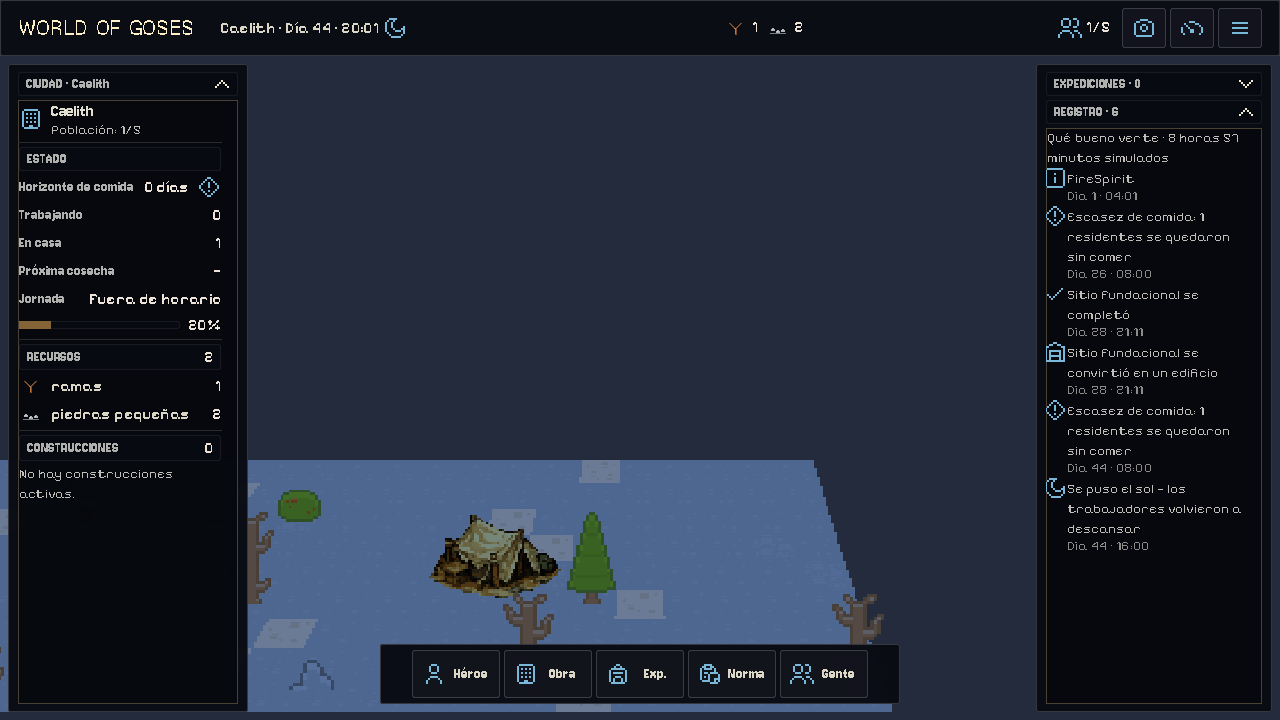
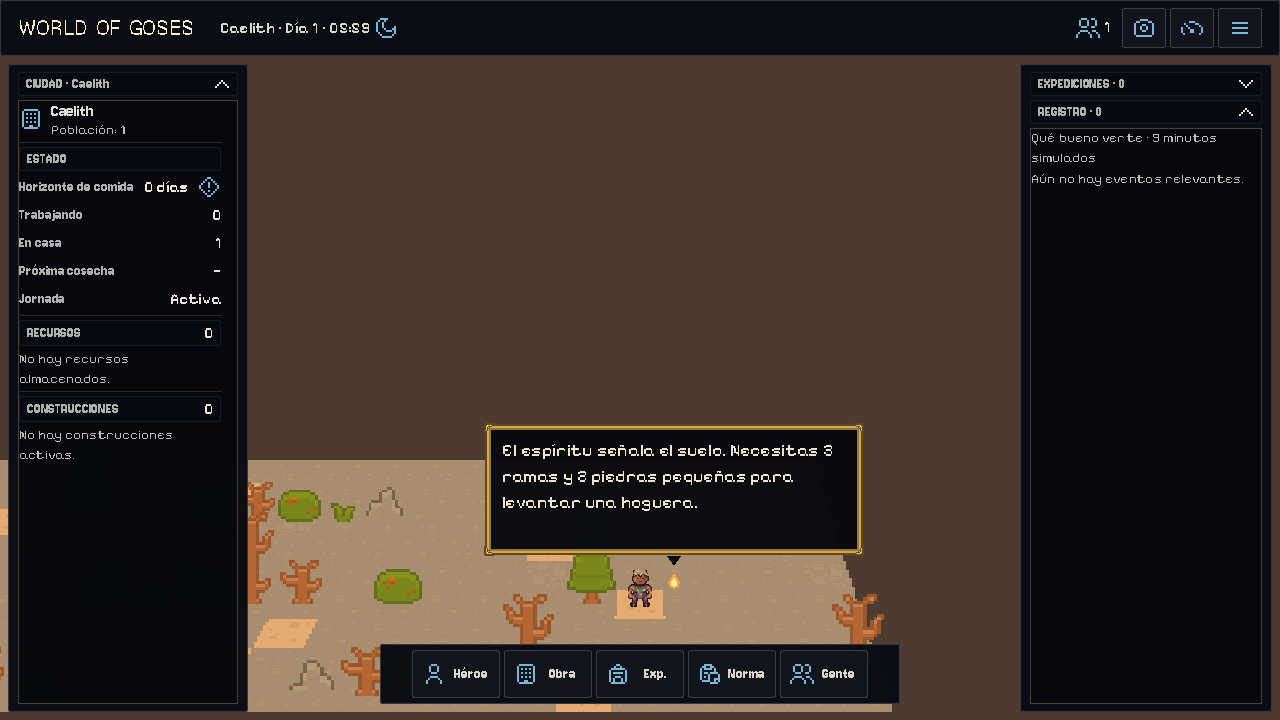
Close #29: the fresh onboarding world is seeded before the first save
CityGameSession.CompleteOnboarding() only called TryCreateHero() after
f41eef74 moved persistence out of the domain. The seeder calls that used
to live on the controller never landed on the new use case, so a fresh
playthrough reached Founder arrival with an empty world: no terrain, no
forests, no branches, no small stone. The session's own comment claimed
the seeds ran; the code did not.

The fix absorbs the orchestration back into the use case that needs it.
CompleteOnboarding() now calls SeedStartingForests() before
SeedStartingOpportunities() because the natural-resource layout planner
needs the parcels the forest seeder creates first. Both seeders were
already idempotent, so the load path that re-runs them from
TryLoadFromPrimarySlot still does not duplicate topology.

Three new tests in OpeningWorldSeedTests guard the contract:
CompleteOnboarding_SeedsForestsAndGroundPatchesBeforeReturning fails if
the world comes back without two Forests, the four EG-A0 ground patches,
the materialised weapon from the request, or the active FirstNightState.
CompleteOnboarding_RoundTripsThroughSaveAndLoadWithoutDoublingTopology
fails if a save+load+re-seed cycle adds a third Forest.
CompleteOnboarding_ProducesEnoughBranchesAndStoneForFirstCampfire fails
if the opener cannot hand the player the 3 Branches + 2 Small Stone the
Campfire recipe debits up front.

Baseline: 0 errors / 0 warnings, 1637/1637 tests, 1070 template IDs, 490
context checks, schema v35 unchanged.

diff --git a/tests/WorldofGoses.Tests/OpeningWorldSeedTests.cs b/tests/WorldofGoses.Tests/OpeningWorldSeedTests.cs
@@ -1,0 +1,171 @@
+#nullable enable
+using System.Linq;
+using WorldofGoses.Domain;
+using WorldofGoses.Persistence;
+using Xunit;
+
+namespace WorldofGoses.Tests;
+
+/// <summary>
+/// GitHub #29 closure tests.
+///
+/// <para>The opening of a fresh world is two operations, not one:
+/// <see cref="CityWorld.TryCreateHero"/> authors the Founder and starts
+/// the first night, and the use case that wraps it is also responsible
+/// for seeding the terrain the next step depends on. The two seeder
+/// calls used to live on <c>CityWorldController.TryCompleteOnboarding</c>
+/// and were correctly removed when persistence left the domain; the
+/// regression this slice closes is that
+/// <see cref="CityGameSession.CompleteOnboarding"/> never absorbed
+/// them. A player reaching Founder arrival in the new flow saw an
+/// empty world with no terrain, no forests, and no rudimentary
+/// resources to gather — a city without a city.</para>
+///
+/// <para>The tests below fail loudly if the regression returns. They
+/// guard three properties:</para>
+/// <list type="number">
+///   <item>A fresh <c>CompleteOnboarding</c> leaves a world the player
+///         can act on: founding parcels, the two Forests, and one
+///         patch of each EG-A0 ground resource.</item>
+///   <item>The opener still honours the prior invariants: the
+///         materialised weapon from <c>HeroCreationRequest</c> is
+///         equipped, the first night is active, and the
+///         seeder does not double the topology on a second call.</item>
+///   <item>Save and load round-trip preserves what the opener seeded
+///         and remains idempotent when the load path re-runs the
+///         same seeder.</item>
+/// </list>
+/// </summary>
+public sealed class OpeningWorldSeedTests
+{
+    [Fact]
+    public void CompleteOnboarding_SeedsForestsAndGroundPatchesBeforeReturning()
+    {
+        // Regression guard for the opening bug: a successful
+        // CompleteOnboarding must leave a city the player can act on.
+        // Before #29 the seeder calls were dropped during the
+        // Application/Persistence split and the world came back empty.
+        CityGameSession session = new();
+        CitizenProfile profile = TestHelpers.NewProfile();
+        // The two natural families the cube reaches depend on the
+        // fixture's lineage and element. Pick the first one so the
+        // request names a real choice; the domain re-validates
+        // anything else and a regression there would surface here.
+        (WeaponFamily chosen, _) = NaturalWeaponFamilies.For(
+            profile.CombatNature.PhysicalExpression);
+        HeroCreationRequest request = new(
+            "Aster",
+            profile,
+            profile.Gender,
+            MaterializedWeaponFamily: chosen);
+
+        HeroCreationResult result = session.CompleteOnboarding(request);
+
+        Assert.True(result.IsSuccess, result.Outcome.ToString());
+        CityWorld world = session.World;
+
+        // Founding parcels must be readable. A fresh city exposes the
+        // three horizontal parcels the natural-resource layout planner
+        // needs before it can place the EG-A0 patches below.
+        Assert.True(world.Parcels.Count >= 3,
+            $"Expected at least 3 founding parcels after CompleteOnboarding, "
+            + $"got {world.Parcels.Count}.");
+
+        // Two Forests is the documented opener. The same number the
+        // load-time repair in CityWorldController.TryLoadFromPrimarySlot
+        // produces, and the same number a save/load round-trip must
+        // preserve. An empty world returns 0 here.
+        int forestCount = world.Buildings.Values
+            .Count(building => building.Kind == BuildingKind.Forest);
+        Assert.Equal(2, forestCount);
+
+        // The EG-A0 ground distribution: 14 Branches, 6 Plant Fiber,
+        // 6 Small Stone, 8 Wild Food. Each type appears at least once.
+        // The two Wood patches come from SeedStartingForests and are
+        // checked separately below.
+        Assert.True(HasPatchOfType(world, ResourceType.Branches));
+        Assert.True(HasPatchOfType(world, ResourceType.PlantFiber));
+        Assert.True(HasPatchOfType(world, ResourceType.SmallStone));
+        Assert.True(HasPatchOfType(world, ResourceType.WildFood));
+
+        // The opener is the same use case that landed the founder's
+        // weapon (#26). A regression that broke one seam often breaks
+        // the other; assert both so the next refactor cannot trade
+        // them off.
+        Assert.NotNull(world.Hero);
+        Assert.NotNull(world.Hero.EquipmentLoadout.Weapon);
+        Assert.Equal(chosen, world.Hero.EquipmentLoadout.Weapon.Family);
+
+        // The first night must be active. The Founder arrival script
+        // gates the spirit on this; a session that returns
+        // success without starting the night is a regression even
+        // when the world is correctly seeded.
+        Assert.True(world.IsFirstNightActive);
+    }
+
+    [Fact]
+    public void CompleteOnboarding_RoundTripsThroughSaveAndLoadWithoutDoublingTopology()
+    {
+        // The seeder calls are now part of CompleteOnboarding, but
+        // TryLoadFromPrimarySlot still re-runs them. A regression
+        // that turned the seeders into a non-idempotent appender
+        // would double the topology here.
+        CityGameSession first = new();
+        CitizenProfile profile = TestHelpers.NewProfile();
+        Assert.True(first.CompleteOnboarding(new HeroCreationRequest(
+            "Aster",
+            profile,
+            profile.Gender)).IsSuccess);
+
+        CityWorld restored = WorldPersistence.FromSave(
+            WorldPersistence.DeserializeFromJson(
+                WorldPersistence.SerializeToJson(WorldPersistence.Capture(first.World))));
+
+        // Re-running the same seeders — what the load path does — must
+        // not add a third Forest, must not duplicate the four EG-A0
+        // patches, and must keep the existing parcels intact.
+        restored.SeedStartingForests();
+        restored.SeedStartingOpportunities();
+
+        int forestCount = restored.Buildings.Values
+            .Count(building => building.Kind == BuildingKind.Forest);
+        Assert.Equal(2, forestCount);
+
+        // 4 EG-A0 patches + 2 Wood patches from the forests = 6.
+        // A regression that turned SeedStartingForests into an
+        // appender would push this past 6.
+        Assert.Equal(6, restored.NaturalResourcePatches.Count);
+    }
+
+    [Fact]
+    public void CompleteOnboarding_ProducesEnoughBranchesAndStoneForFirstCampfire()
+    {
+        // The acceptance criterion named in #29: a fresh opener must
+        // hand the player the 3 Branches + 2 Small Stone the Campfire
+        // recipe debits up front. The seeder distributes 14 Branches
+        // (7 units × 2 each) and 6 Small Stone (3 × 2) — more than
+        // the recipe needs, so the camp can be authorised without
+        // gathering a third patch.
+        CityGameSession session = new();
+        CitizenProfile profile = TestHelpers.NewProfile();
+        Assert.True(session.CompleteOnboarding(new HeroCreationRequest(
+            "Aster",
+            profile,
+            profile.Gender)).IsSuccess);
+
+        CityWorld world = session.World;
+        int branches = world.NaturalResourcePatches.Values
+            .Where(patch => patch.ResourceType == ResourceType.Branches)
+            .Sum(patch => patch.TotalReserve);
+        int smallStone = world.NaturalResourcePatches.Values
+            .Where(patch => patch.ResourceType == ResourceType.SmallStone)
+            .Sum(patch => patch.TotalReserve);
+
+        Assert.True(branches >= 3, $"Branches={branches}, need >= 3 for the Campfire recipe.");
+        Assert.True(smallStone >= 2, $"SmallStone={smallStone}, need >= 2 for the Campfire recipe.");
+    }
+
+    private static bool HasPatchOfType(CityWorld world, ResourceType type) =>
+        world.NaturalResourcePatches.Values
+            .Any(patch => patch.ResourceType == type);
+}

diff --git a/game/scripts/Application/CityGameSession.cs b/game/scripts/Application/CityGameSession.cs
@@ -287,10 +287,33 @@ public sealed class CityGameSession
     /// starting forests plus the four rudimentary ground opportunities, and
     /// persists.
     /// </summary>
+    /// <remarks>
+    /// GitHub #29 closed the opening regression introduced in
+    /// <c>f41eef74</c>: the case-use previously only called
+    /// <see cref="CityWorld.TryCreateHero"/> and left the world empty, so
+    /// a fresh onboarding reached the Founder arrival with no terrain,
+    /// forests or ground resources to gather. The seeders used to live on
+    /// <c>CityWorldController.TryCompleteOnboarding</c> and were correctly
+    /// removed when persistence left the domain, but the new owner has to
+    /// re-issue them. They are idempotent — a save/load pair already
+    /// running them through <c>TryLoadFromPrimarySlot</c> would not
+    /// double-seed — so calling them here is safe even for slots that
+    /// later round-trip through persistence.
+    /// </remarks>
     public HeroCreationResult CompleteOnboarding(HeroCreationRequest request)
     {
         HeroCreationResult result = _world.TryCreateHero(request);
-        if (result.IsSuccess) _isDirty = true;
+        if (result.IsSuccess)
+        {
+            // Issue #29: the opening was an empty world because the
+            // case-use stopped at the hero. The seeder order matters —
+            // forests reference parcels that
+            // <see cref="CityWorld.SeedStartingForests"/> ensures exist
+            // before the natural-resource layout planner runs.
+            _world.SeedStartingForests();
+            _world.SeedStartingOpportunities();
+            _isDirty = true;
+        }
         return result;
     }
 

diff --git a/CHANGELOG.md b/CHANGELOG.md
@@ -17,6 +17,40 @@ baseline — not a list of touched files, `git log` already owns.
 
 ---
 
+## El opening vuelve a tener mundo por el que jugar
+
+**2026-08-13** · onboarding · schema v35 (sin cambio) · 1637 pruebas superadas
+
+**El jugador llega a un terreno jugable, no a una ciudad vacía.** El refactor
+`f41eef74` movió la persistencia fuera del dominio y dejó el caso de uso de
+`CityGameSession.CompleteOnboarding()` creando al Founder pero sin sembrar
+los bosques ni las oportunidades iniciales. El comentario del método decía
+que sí lo hacía; el código no. El resultado era un playthrough fresco que
+llegaba al espíritu pero veía un mapa sin terreno, sin ramas y sin piedras.
+El cierre del Workaround era reabrir el slot — `TryLoadFromPrimarySlot()`
+sí re-ejecuta los seeders, así que los saves viejos quedaban reparados al
+recargar.
+
+**La orquestación del seed vive en Application, no vuelve a Presentation.**
+`CityGameSession.CompleteOnboarding()` llama a `SeedStartingForests()` y
+`SeedStartingOpportunities()` después de `TryCreateHero()`, en ese orden
+porque el layout planner de recursos necesita las parcelas que crea el
+primer seeder. Los seeders ya eran idempotentes, así que el load path que
+los re-ejecuta después de restaurar no duplica parcelas, bosques ni
+patches — `OpeningWorldSeedTests.CompleteOnboarding_RoundTripsThroughSaveAndLoadWithoutDoublingTopology`
+lo prueba.
+
+**El arma materializada y la primera noche siguen intactas.** El nuevo
+arreglo sólo añade los seeders; el arma equipada (#26) y el `FirstNightState`
+arrancando al confirmar el Founder quedan exactamente como estaban.
+`OpeningWorldSeedTests.CompleteOnboarding_SeedsForestsAndGroundPatchesBeforeReturning`
+falla si alguno de los dos se rompe, y
+`CompleteOnboarding_ProducesEnoughBranchesAndStoneForFirstCampfire` verifica
+que el presupuesto mínimo del Campfire (3 Branches + 2 Small Stone) sigue
+ahí antes del primer save.
+
+---
+
 ## La carta del Founder dice ahora con qué se materializa
 
 **2026-08-13** · onboarding · presentación · schema v35 (sin cambio) · 1634 pruebas superadas

diff --git a/TO_DO.md b/TO_DO.md
@@ -441,6 +441,24 @@ superados en 2026-07-30; ver §8.)_
 
 ## 7. Hechas recientes
 
+### 2026-08-13
+
+- **#29 — El opening vuelve a tener mundo por el que jugar.** Regresión
+  introducida en `f41eef74`: `CityGameSession.CompleteOnboarding()` sólo
+  llamaba a `TryCreateHero()` y dejaba el world vacío. El comentario del
+  método afirmaba que sembraba bosques + oportunidades, pero la
+  implementación no. Cierre: el caso de uso absorbe los dos seeders en
+  ese orden (`SeedStartingForests()` antes que
+  `SeedStartingOpportunities()` porque el layout planner de recursos
+  necesita las parcelas que crea el primer seeder). El load path que
+  re-ejecuta los seeders sigue siendo idempotente — los seeders ya lo
+  eran. Tres tests nuevos en `OpeningWorldSeedTests` blindan el
+  contrato: mundo post-onboarding tiene 2 Forests + 4 patches
+  EG-A0 + 3 Branches/2 Small Stone suficientes para el Campfire,
+  arma materializada sigue equipada y `FirstNightState` arranca, y
+  un round-trip save/load + re-seed no duplica topología. Sin schema
+  bump. Build 0/0, tests 1637/1637.
+
 ### 2026-08-06
 
 - **H-33 + H-34 + M-26 — Primera noche del fundador jugable.** Tres ítems
